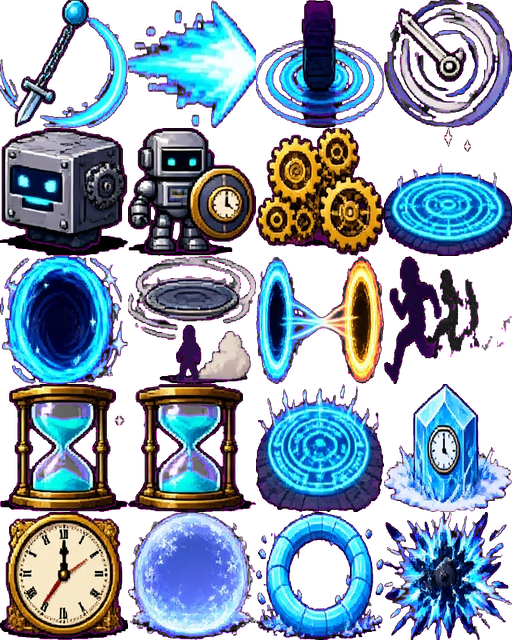
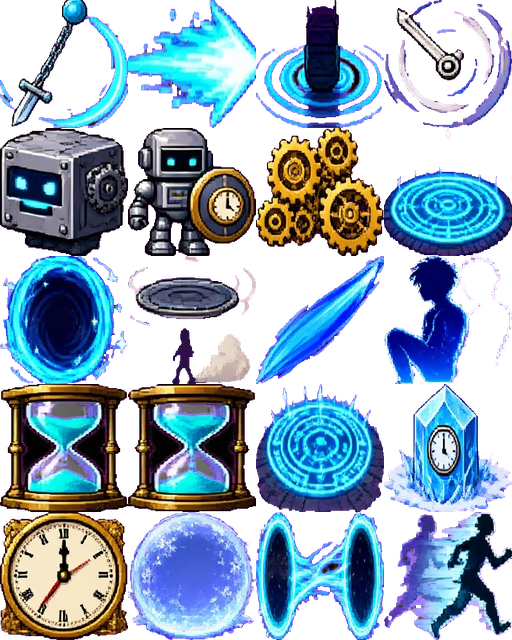
Ponteiro FX: Fenda Temporal ganha rastro ciano com arte, Ampulheta maior, atlas combina as 3 folhas de habilidades (56 celulas disponiveis)

diff --git a/js/engine/fighter.js b/js/engine/fighter.js
@@ -738,6 +738,17 @@ class Fighter {
         if (seek && tgt) this.dir = tgt.x >= this.x ? 1 : -1;
         this.vx = this.dir * sp;
         this.dashHit = { p, t: p.phase ? 18 : 16 };
+        /* Dash com arte própria (PONTEIRO — Fenda Temporal): rastro com a
+           arte da habilidade + afterimages ciano ao longo do blink. */
+        if (p.visualSheet) {
+          const dkey = 'fx2:' + p.visualSheet;
+          const drow = Number.isInteger(p.visualRow) ? p.visualRow : p.row;
+          for (let k = 0; k < 3; k++) {
+            game.spawnImgFx('arcano', 'projectile', this.x + this.dir * (30 + k * 46), this.y - 100 - k * 10, { scale: 1.6 + k * 0.4, life: 14 });
+          }
+          game.spawnBurst(dkey.replace('fx2:', 'abil:'), drow, this.x, this.y - 100, this.dir, 2.2);
+          game.floatText(this.x, this.y - 230, 'FENDA TEMPORAL', '#00FFFF');
+        }
         /* NUNES — Avanço Flamejante: o rastro de chamas fica no chão. */
         if (p.fireTrail) {
           game.zones.push(new Zone(this, { fid, key, row: Number.isInteger(p.visualRow) ? p.visualRow : p.row, x: this.x, w: 150, time: p.fireTrail, dmg: 0.1, burn: 140, slow: 50, power: p }));

diff --git a/js/data/fighters-v20.js b/js/data/fighters-v20.js
@@ -64,7 +64,7 @@
         }, visual(2, '#00FFFF')),
         Object.assign({
           id: 'ampulheta', name: 'Ampulheta', slot: 'charge', meter: 1, row: 3,
-          kind: 'zone', at: 'target', time: 600, w: 170, dmg: 0.06, slow: 40, cd: 300, sfx: 'magic',
+          kind: 'zone', at: 'target', time: 600, w: 210, dmg: 0.08, slow: 60, cd: 300, sfx: 'magic',
           fx: { freeze: 90 },
           desc: 'Armadilha no chão: CONGELA quem pisar por 1,5 segundos.',
         }, visual(3, '#E8E4D8')),
